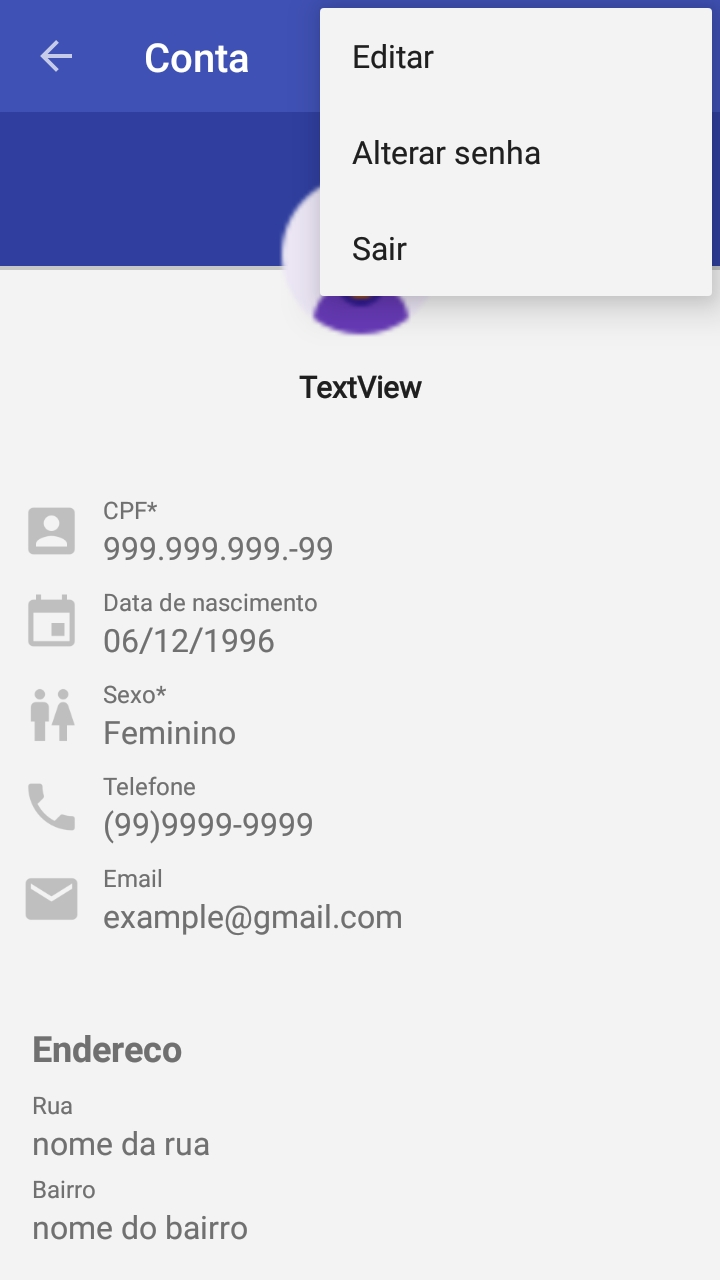
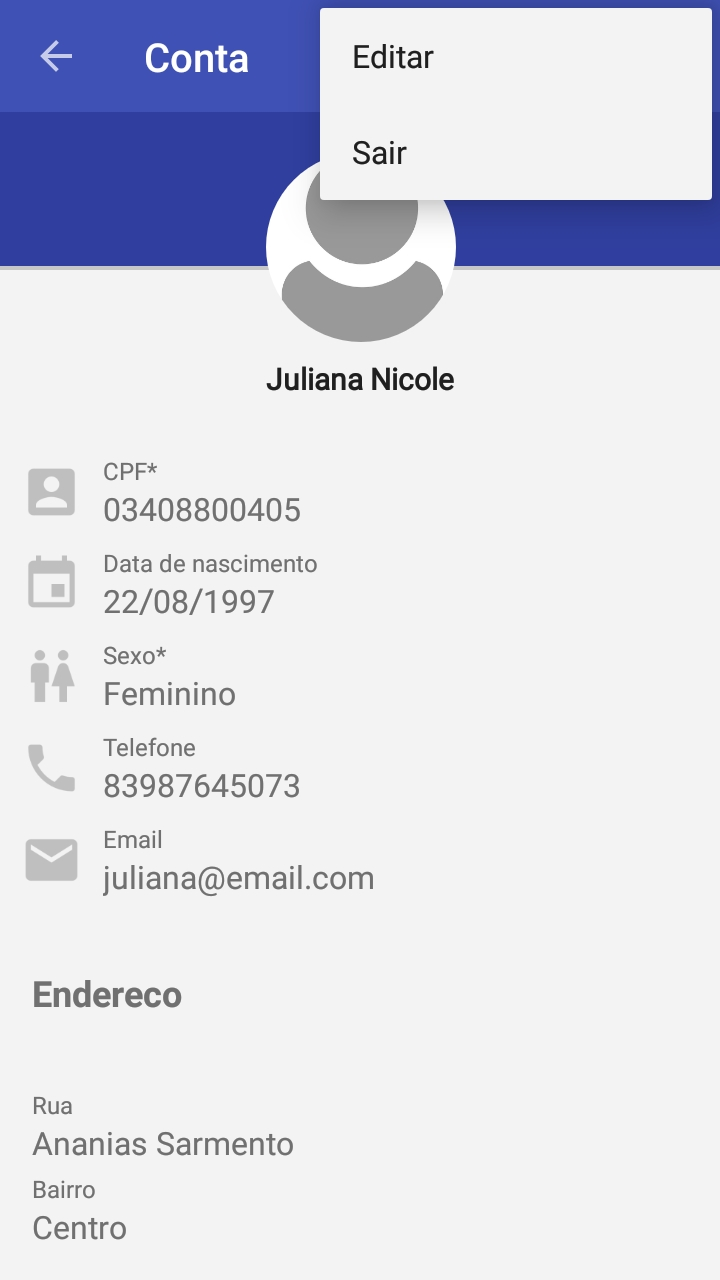
re-desing

diff --git a/app/src/main/java/com/ifpb/suaconsulta/activity/MinhasConsultasActivity.java b/app/src/main/java/com/ifpb/suaconsulta/activity/MinhasConsultasActivity.java
@@ -33,7 +33,7 @@ public class MinhasConsultasActivity extends AppCompatActivity {
         FragmentPagerItemAdapter adapter = new FragmentPagerItemAdapter(
                 getSupportFragmentManager(), FragmentPagerItems.with(this)
                 .add("Agendadas", MinhasConsultasFragment.class)
-                .add("Lista de espera", ListaEsperaFragment.class)
+//                .add("Lista de espera", ListaEsperaFragment.class)
                 .create());
 
         ViewPager viewPager = (ViewPager) findViewById(R.id.viewpager);

diff --git a/app/src/main/java/com/ifpb/suaconsulta/activity/SettingsContaActivity.java b/app/src/main/java/com/ifpb/suaconsulta/activity/SettingsContaActivity.java
@@ -82,9 +82,9 @@ public class SettingsContaActivity extends AppCompatActivity {
             case R.id.itemEditar:
                 startActivity(new Intent(SettingsContaActivity.this, EditarInformacoesActivity.class));
                 break;
-            case R.id.itemAlterarSenha:
-                //ação
-                break;
+//            case R.id.itemAlterarSenha:
+//                //ação
+//                break;
             case R.id.itemSair:
                 logout();
                 break;

diff --git a/app/src/main/java/com/ifpb/suaconsulta/activity/MainActivity.java b/app/src/main/java/com/ifpb/suaconsulta/activity/MainActivity.java
@@ -60,11 +60,6 @@ public class MainActivity extends AppCompatActivity {
         startActivity(intent);
     }
 
-    public void carregaProcurarLocal(View view) {
-        Intent intent = new Intent(MainActivity.this, LocalSaudeActivity.class);
-        startActivity(intent);
-    }
-
     public void carregaLembretes(View view) {
         Intent intent = new Intent(MainActivity.this, MedicamentosActivity.class);
         startActivity(intent);
